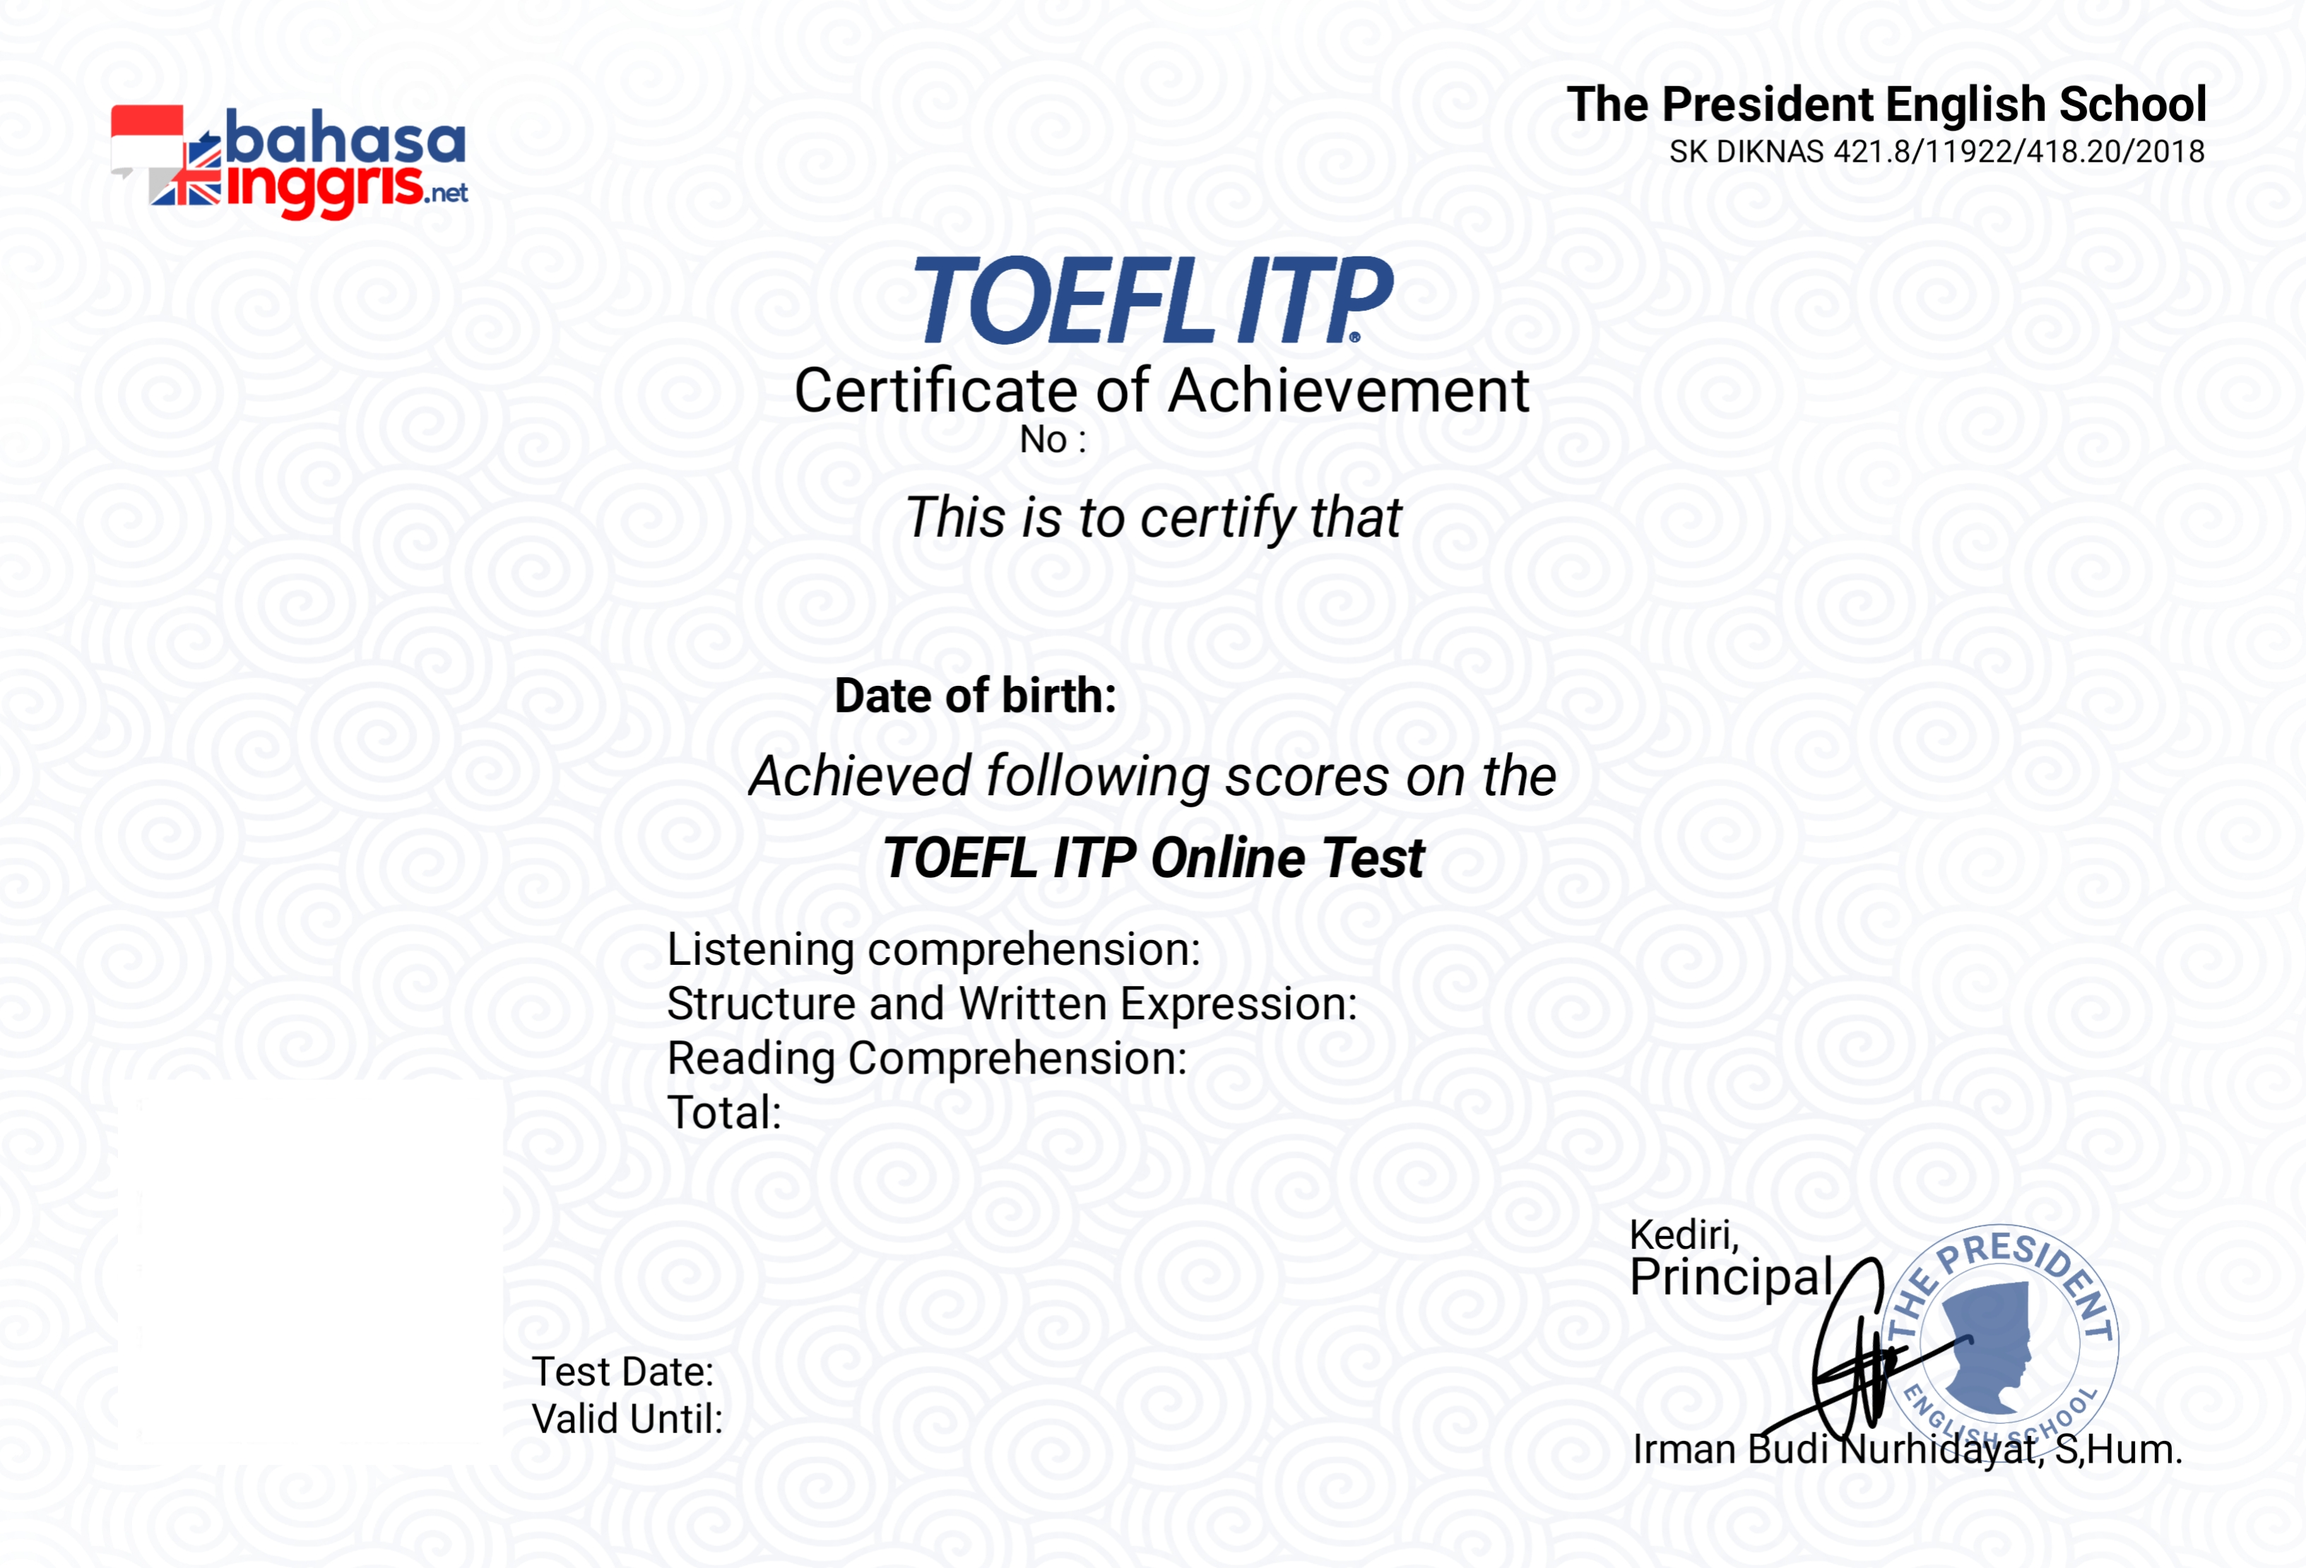
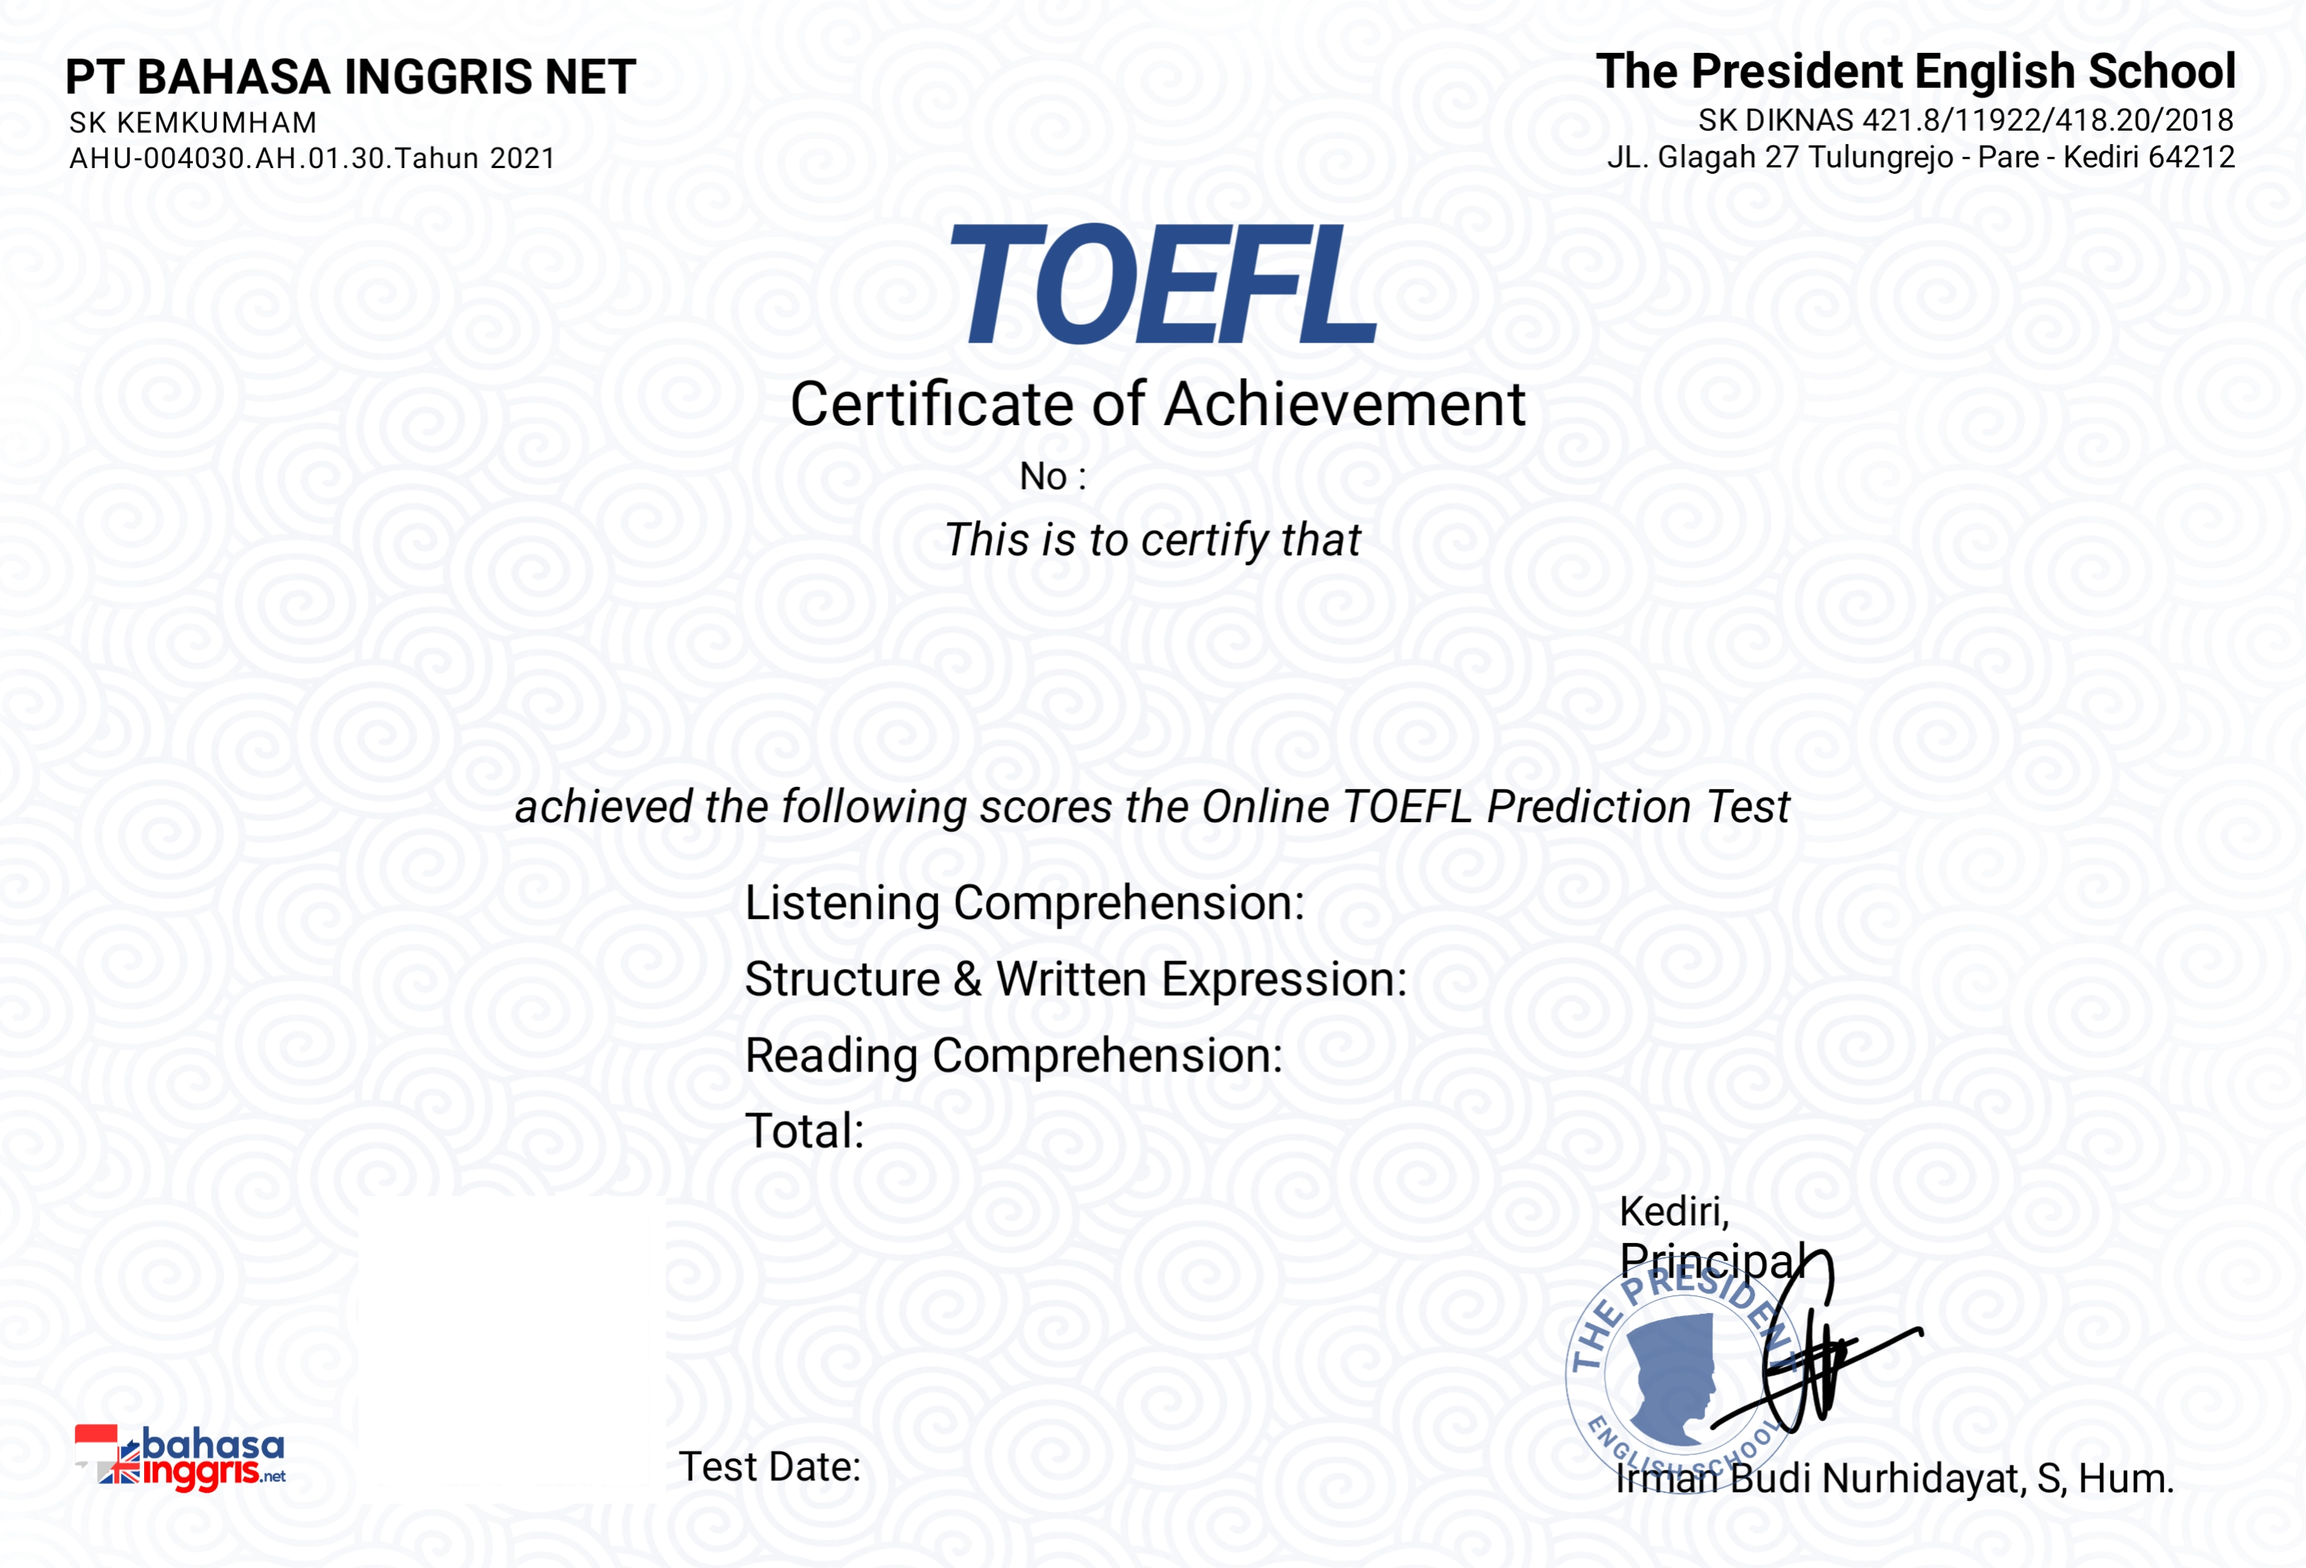
update sertifikat

diff --git a/application/views/pages/tes/sertifikat.php b/application/views/pages/tes/sertifikat.php
@@ -49,8 +49,8 @@
         .qrcode{
             width: 210px;
 			position: absolute;
-            left: 44px;
-			bottom: 40px;
+            left: 110px;
+			bottom: 25px;
             font-size: 35px;
             word-spacing: 3px;
         }
@@ -70,7 +70,7 @@
             /* background-color: red; */
             width: 600px;
 			position: absolute;
-            left: 165px;
+            left: 100px;
 			top: 238px;
             font-size: 16px;
             font-family: 'Roboto', sans-serif;
@@ -94,7 +94,7 @@
             width: 120px;
 			position: absolute;
             left: 450px;
-			top: 328px;
+			top: 314px;
             font-size: 14px;
             font-family: 'Roboto', sans-serif;
             word-spacing: 3px;
@@ -105,7 +105,7 @@
             width: 120px;
 			position: absolute;
             left: 450px;
-			top: 349px;
+			top: 342px;
             font-size: 14px;
             font-family: 'Roboto', sans-serif;
             word-spacing: 3px;
@@ -116,7 +116,7 @@
             width: 120px;
 			position: absolute;
             left: 450px;
-			top: 369px;
+			top: 368px;
             font-size: 14px;
             font-family: 'Roboto', sans-serif;
             word-spacing: 3px;
@@ -127,7 +127,7 @@
             width: 120px;
 			position: absolute;
             left: 450px;
-			top: 388px;
+			top: 395px;
             font-size: 14px;
             font-family: 'Roboto', sans-serif;
             word-spacing: 3px;
@@ -136,8 +136,18 @@
         .tgl{
             /* background-color: red; */
 			position: absolute;
-            left: 254px;
-			bottom: 61px;
+            left: 300px;
+			bottom: 26px;
+            font-size: 14px;
+            font-family: 'Roboto', sans-serif;
+            word-spacing: 3px;
+        }
+
+        .tgl-2{
+            /* background-color: red; */
+			position: absolute;
+            left: 600px;
+			bottom: 118px;
             font-size: 14px;
             font-family: 'Roboto', sans-serif;
             word-spacing: 3px;
@@ -168,7 +178,7 @@
             width: 200px;
 			position: absolute;
             left: 380px;
-			top: 148px;
+			top: 162px;
             font-size: 13px;
             font-family: 'Roboto', sans-serif;
             word-spacing: 3px;
@@ -213,7 +223,7 @@
 </head>
     <body style="text-align: center">
         <div class="qrcode">
-            <img src="<?= base_url()?>assets/qrcode/<?= $id?>.png" width=135 alt="">
+            <img src="<?= base_url()?>assets/qrcode/<?= $id?>.png" width=120 alt="">
         </div>
         <div class="nilai"><p style="text-align: right; margin: 0px"><b><?= round($skor)?></b></p></div>
         <div class="nama"><p style="text-align: center; margin: 0px"><b><u><?= $nama?></u></b></p></div>
@@ -226,8 +236,9 @@
         <div class="structure"><p style="text-align: right; margin: 0px"><b><?= $structure?></b></p></div>
         <div class="reading"><p style="text-align: right; margin: 0px"><b><?= $reading?></b></p></div>
         <div class="no_doc"><p style="margin: 0px"><?= $no_doc?></p></div>
-        <div class="tgl"><p style="text-align: center; margin: 0px"><?= date("d/m/y", strtotime($tgl_tes))?></p></div>
-        <div class="tgl_akhir"><p style="text-align: center; margin: 0px"><?= date("d/m/y", strtotime('+1 years', strtotime($tgl_tes)))?></p></div>
-        <div class="tgl_tes"><p style="text-align: center; margin: 0px"><?= tgl_sertifikat(date("d-m-Y", strtotime($tgl_tes)))?></p></div>
+        <div class="tgl"><p style="text-align: center; margin: 0px"><?= date("d-m-y", strtotime($tgl_tes))?></p></div>
+        <div class="tgl-2"><p style="text-align: center; margin: 0px"><?= tgl_sertifikat(date("d-m-y", strtotime($tgl_tes)))?></p></div>
+        <!-- <div class="tgl_akhir"><p style="text-align: center; margin: 0px"><?= date("d/m/y", strtotime('+1 years', strtotime($tgl_tes)))?></p></div>
+        <div class="tgl_tes"><p style="text-align: center; margin: 0px"><?= tgl_sertifikat(date("d-m-Y", strtotime($tgl_tes)))?></p></div> -->
     </body>
 </html>
